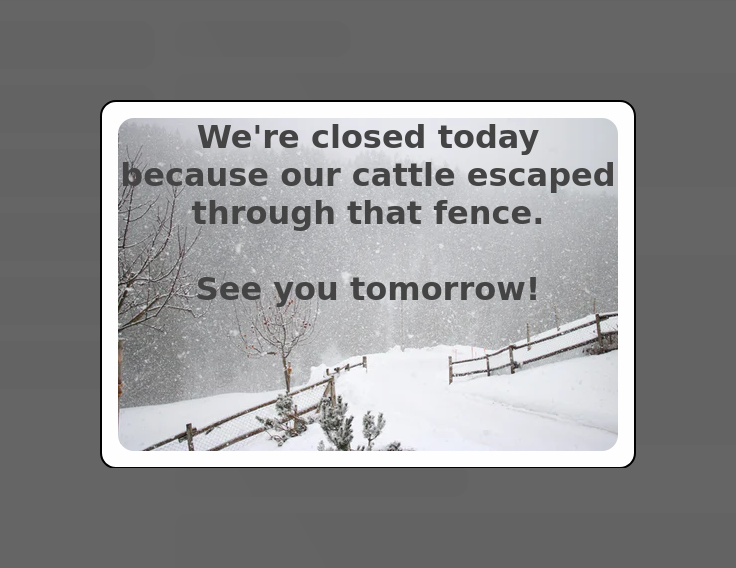
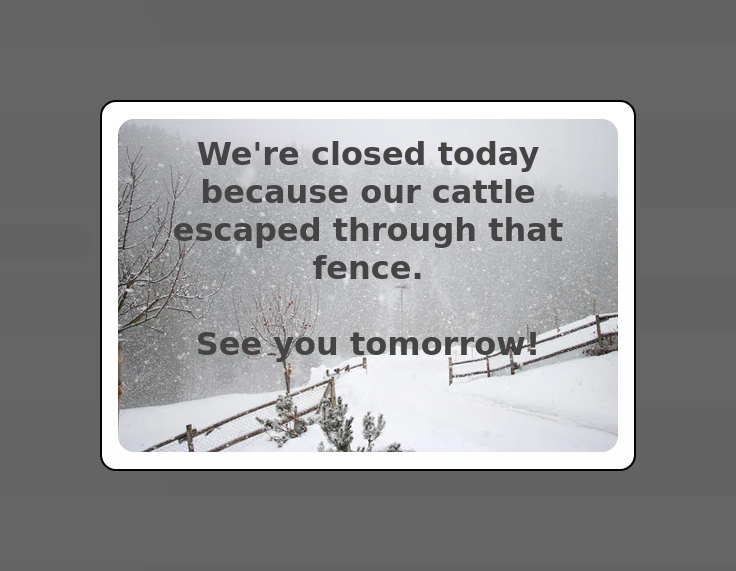
Roped in version of components that adds support for custom styles and updated the UI and description accordingly.

diff --git a/build/index.js b/build/index.js
@@ -156,7 +156,7 @@ var styleFactory = function styleFactory(vars) {
   return "\n  .wrapper {\n    display: flex;\n    font-size: ".concat(vars.fontSize * vars.PX_SCALE_FACTOR, "px;\n    font-family: system-ui, -apple-system, BlinkMacSystemFont, \"Segoe UI\", Roboto, Ubuntu, \"Helvetica Neue\", sans-serif;\n    text-align: left;\n    color: #000;\n    background-color: #fff;\n    margin: ").concat(vars.verticalMargin * vars.PX_SCALE_FACTOR, "px\n            ").concat(vars.horizontalMargin * vars.PX_SCALE_FACTOR, "px;\n    border-radius: ").concat(vars.borderRadius * vars.PX_SCALE_FACTOR, "px;\n    z-index: ").concat(vars.MAX_Z_INDEX + 1, ";\n  }\n\n  .wrapper.dismissible {\n    position: fixed;\n    left: 0;\n    top: 0;\n    right: 0;\n    cursor: pointer;\n    box-shadow: 0 0 16px 4px #444;\n    border-top-left-radius: 0;\n    border-top-right-radius: 0;\n    margin: 0;\n  }\n\n  .wrapper.dismissible.show {\n    animation-duration: .5s;\n    animation-name: slideDown;\n    animation-timing-function: linear;\n  }\n\n  .wrapper.dismissible.hide {\n    animation-duration: .25s;\n    animation-name: slideDown;\n    animation-timing-function: linear;\n    animation-direction: reverse;\n  }\n\n  .message {\n    display: inline;\n    flex-grow: 1;\n    padding: ").concat(vars.verticalPadding * vars.PX_SCALE_FACTOR, "px\n             ").concat(vars.horizontalPadding * vars.PX_SCALE_FACTOR, "px;\n  }\n\n  .wrapper.dismissible .message {\n    padding: ").concat((vars.verticalPadding + 4) * vars.PX_SCALE_FACTOR, "px\n             ").concat((vars.horizontalPadding + 16) * vars.PX_SCALE_FACTOR, "px;\n  }\n\n  .message img {\n    max-width: ").concat(vars.maxImageWidth * vars.PX_SCALE_FACTOR, "px;\n  }\n\n  .button-wrapper {\n    padding: ").concat(4 * vars.PX_SCALE_FACTOR, "px ").concat(32 * vars.PX_SCALE_FACTOR, "px;\n    font-weight: normal;\n    position: relative;\n  }\n\n  .button-wrapper.highlight {\n    background-color: rgba(255, 255, 255, .25);\n    box-shadow: -1px 0px 8px #888;\n    border-radius: ").concat(vars.borderRadius, "px;\n    border-top-right-radius: 0;\n  }\n\n  .button-wrapper:hover {\n    font-weight: bold;\n  }\n\n  button {\n    margin: 0;\n    padding: 0;\n    background-color: transparent;\n    border: none;\n    font-family: monospace;\n    font-size: ").concat(16 * vars.PX_SCALE_FACTOR, "px;\n    font-weight: inherit;\n    position: absolute;\n    top: 50%;\n    left: 50%;\n    transform: translate(-50%, -50%);\n    cursor: pointer;\n  }\n\n  @keyframes slideDown {\n    from {\n      transform: translate(0, -150%);\n    }\n\n    to {\n      transform: translate(0, 0);\n    }\n  }\n\n  a {\n    text-decoration: none;\n  }\n\n  p {\n    margin: 0;\n  }\n");
 };
 
-var propNameTypeDefaults = [["bannerUrl", _utils_js__WEBPACK_IMPORTED_MODULE_2__["TYPES"].STRING, ""], ["borderRadius", _utils_js__WEBPACK_IMPORTED_MODULE_2__["TYPES"].INTEGER, 16], ["colorScheme", _utils_js__WEBPACK_IMPORTED_MODULE_2__["TYPES"].STRING, "primary"], ["dismissible", _utils_js__WEBPACK_IMPORTED_MODULE_2__["TYPES"].BOOLEAN, true], ["fontSize", _utils_js__WEBPACK_IMPORTED_MODULE_2__["TYPES"].INTEGER, 16], ["gradientLevel", _utils_js__WEBPACK_IMPORTED_MODULE_2__["TYPES"].FLOAT, 1.0], ["horizontalMargin", _utils_js__WEBPACK_IMPORTED_MODULE_2__["TYPES"].FLOAT, 0], ["horizontalPadding", _utils_js__WEBPACK_IMPORTED_MODULE_2__["TYPES"].FLOAT, 0], ["id", _utils_js__WEBPACK_IMPORTED_MODULE_2__["TYPES"].STRING, ""], ["maxImageWidth", _utils_js__WEBPACK_IMPORTED_MODULE_2__["TYPES"].INTEGER, 20], ["message", _utils_js__WEBPACK_IMPORTED_MODULE_2__["TYPES"].HTML, "A default message"], ["verticalMargin", _utils_js__WEBPACK_IMPORTED_MODULE_2__["TYPES"].FLOAT, 0], ["verticalPadding", _utils_js__WEBPACK_IMPORTED_MODULE_2__["TYPES"].FLOAT, 16]];
+var propNameTypeDefaults = [["bannerUrl", _utils_js__WEBPACK_IMPORTED_MODULE_2__["TYPES"].STRING, ""], ["borderRadius", _utils_js__WEBPACK_IMPORTED_MODULE_2__["TYPES"].INTEGER, 16], ["colorScheme", _utils_js__WEBPACK_IMPORTED_MODULE_2__["TYPES"].STRING, "primary"], ["customStyles", _utils_js__WEBPACK_IMPORTED_MODULE_2__["TYPES"].STRING, ""], ["dismissible", _utils_js__WEBPACK_IMPORTED_MODULE_2__["TYPES"].BOOLEAN, true], ["fontSize", _utils_js__WEBPACK_IMPORTED_MODULE_2__["TYPES"].INTEGER, 16], ["gradientLevel", _utils_js__WEBPACK_IMPORTED_MODULE_2__["TYPES"].FLOAT, 1.0], ["horizontalMargin", _utils_js__WEBPACK_IMPORTED_MODULE_2__["TYPES"].FLOAT, 0], ["horizontalPadding", _utils_js__WEBPACK_IMPORTED_MODULE_2__["TYPES"].FLOAT, 0], ["id", _utils_js__WEBPACK_IMPORTED_MODULE_2__["TYPES"].STRING, ""], ["maxImageWidth", _utils_js__WEBPACK_IMPORTED_MODULE_2__["TYPES"].INTEGER, 20], ["message", _utils_js__WEBPACK_IMPORTED_MODULE_2__["TYPES"].HTML, "A default message"], ["verticalMargin", _utils_js__WEBPACK_IMPORTED_MODULE_2__["TYPES"].FLOAT, 0], ["verticalPadding", _utils_js__WEBPACK_IMPORTED_MODULE_2__["TYPES"].FLOAT, 16]];
 var BannerComponent = /*#__PURE__*/function (_Dismissible) {
   _inherits(BannerComponent, _Dismissible);
 
@@ -189,6 +189,7 @@ var BannerComponent = /*#__PURE__*/function (_Dismissible) {
 
       var _this$props = this.props,
           colorScheme = _this$props.colorScheme,
+          customStyles = _this$props.customStyles,
           dismissible = _this$props.dismissible,
           gradientLevel = _this$props.gradientLevel,
           message = _this$props.message;
@@ -200,6 +201,11 @@ var BannerComponent = /*#__PURE__*/function (_Dismissible) {
       if (bannerUrl && message.includes("</a>")) {
         bannerUrl = "";
         console.warn("Banner URL disabled because message includes an <a> tag");
+      } // Added any custom styles to the stylesheet.
+
+
+      if (customStyles) {
+        this.shadow.querySelector("style").textContent += "\n\n/* Custom Styles Begin */\n".concat(customStyles);
       } // Define the main wrapper element.
 
 
@@ -801,7 +807,7 @@ var styleFactory = function styleFactory(vars) {
   return "\n  .wrapper {\n    position: fixed;\n    left: 0;\n    top: 0;\n    right: 0;\n    bottom: 0;\n    background-color: rgba(0, 0, 0, .6);\n    cursor: pointer;\n    z-index: ".concat(vars.MAX_Z_INDEX + 1, ";\n  }\n\n  .content {\n    display: inline-block;\n    width: fit-content;\n    max-width: 85%;\n    max-height: 85%;\n    position: fixed;\n    top: 50%;\n    left: 50%;\n    transform: translate(-50%, -50%);\n    border: solid #000 2px;\n    overflow: auto;\n    cursor: default;\n    text-align: right;\n    padding: ").concat(16 * vars.PX_SCALE_FACTOR, "px;\n    background-color: #fff;\n    font-size: ").concat(vars.fontSize * vars.PX_SCALE_FACTOR, "px;\n    border-radius: ").concat(vars.borderRadius, "px;\n  }\n\n  @media screen and (min-width: 800px) {\n    .content {\n      max-width: 680px;\n    }\n  }\n\n  .message {\n    text-align: left;\n    display: block;\n    cursor: text;\n    padding: ").concat(vars.verticalPadding * vars.PX_SCALE_FACTOR, "px\n             ").concat(vars.horizontalPadding * vars.PX_SCALE_FACTOR, "px;\n  }\n\n  .message img {\n    max-width: ").concat(vars.maxImageWidth * vars.PX_SCALE_FACTOR, "px;\n  }\n\n  button {\n    display: inline;\n    padding: ").concat(8 * vars.PX_SCALE_FACTOR, "px ").concat(12 * vars.PX_SCALE_FACTOR, "px;\n    cursor: pointer;\n    border: none;\n    border-radius: 4px;\n    margin-top: ").concat(24 * vars.PX_SCALE_FACTOR, "px;\n    font-size: ").concat(16 * vars.PX_SCALE_FACTOR, "px;\n  }\n\n  p {\n    margin: 0;\n  }\n");
 };
 
-var propNameTypeDefaults = [["borderRadius", _utils_js__WEBPACK_IMPORTED_MODULE_2__["TYPES"].INTEGER, 16], ["buttonText", _utils_js__WEBPACK_IMPORTED_MODULE_2__["TYPES"].STRING, "OK"], ["colorScheme", _utils_js__WEBPACK_IMPORTED_MODULE_2__["TYPES"].STRING, "primary"], ["dismissible", _utils_js__WEBPACK_IMPORTED_MODULE_2__["TYPES"].BOOLEAN, true], ["fontSize", _utils_js__WEBPACK_IMPORTED_MODULE_2__["TYPES"].INTEGER, 16], ["gradientLevel", _utils_js__WEBPACK_IMPORTED_MODULE_2__["TYPES"].FLOAT, 1.0], ["horizontalPadding", _utils_js__WEBPACK_IMPORTED_MODULE_2__["TYPES"].FLOAT, 0], ["id", _utils_js__WEBPACK_IMPORTED_MODULE_2__["TYPES"].STRING, ""], ["maxImageWidth", _utils_js__WEBPACK_IMPORTED_MODULE_2__["TYPES"].INTEGER, 20], ["message", _utils_js__WEBPACK_IMPORTED_MODULE_2__["TYPES"].HTML, "A default message"], ["stealFocus", _utils_js__WEBPACK_IMPORTED_MODULE_2__["TYPES"].BOOLEAN, true], ["verticalPadding", _utils_js__WEBPACK_IMPORTED_MODULE_2__["TYPES"].FLOAT, 1]];
+var propNameTypeDefaults = [["borderRadius", _utils_js__WEBPACK_IMPORTED_MODULE_2__["TYPES"].INTEGER, 16], ["buttonText", _utils_js__WEBPACK_IMPORTED_MODULE_2__["TYPES"].STRING, "OK"], ["colorScheme", _utils_js__WEBPACK_IMPORTED_MODULE_2__["TYPES"].STRING, "primary"], ["customStyles", _utils_js__WEBPACK_IMPORTED_MODULE_2__["TYPES"].STRING, ""], ["dismissible", _utils_js__WEBPACK_IMPORTED_MODULE_2__["TYPES"].BOOLEAN, true], ["fontSize", _utils_js__WEBPACK_IMPORTED_MODULE_2__["TYPES"].INTEGER, 16], ["gradientLevel", _utils_js__WEBPACK_IMPORTED_MODULE_2__["TYPES"].FLOAT, 1.0], ["horizontalPadding", _utils_js__WEBPACK_IMPORTED_MODULE_2__["TYPES"].FLOAT, 0], ["id", _utils_js__WEBPACK_IMPORTED_MODULE_2__["TYPES"].STRING, ""], ["maxImageWidth", _utils_js__WEBPACK_IMPORTED_MODULE_2__["TYPES"].INTEGER, 20], ["message", _utils_js__WEBPACK_IMPORTED_MODULE_2__["TYPES"].HTML, "A default message"], ["stealFocus", _utils_js__WEBPACK_IMPORTED_MODULE_2__["TYPES"].BOOLEAN, true], ["verticalPadding", _utils_js__WEBPACK_IMPORTED_MODULE_2__["TYPES"].FLOAT, 1]];
 var ModalComponent = /*#__PURE__*/function (_Dismissible) {
   _inherits(ModalComponent, _Dismissible);
 
@@ -836,10 +842,16 @@ var ModalComponent = /*#__PURE__*/function (_Dismissible) {
       var _this$props = this.props,
           buttonText = _this$props.buttonText,
           colorScheme = _this$props.colorScheme,
+          customStyles = _this$props.customStyles,
           dismissible = _this$props.dismissible,
           gradientLevel = _this$props.gradientLevel,
           message = _this$props.message,
-          stealFocus = _this$props.stealFocus; // Define the main wrapper element.
+          stealFocus = _this$props.stealFocus; // Added any custom styles to the stylesheet.
+
+      if (customStyles) {
+        this.shadow.querySelector("style").textContent += "\n\n/* Custom Styles Begin */\n".concat(customStyles);
+      } // Define the main wrapper element.
+
 
       var _split = (SCHEME_NAME_COLORS_MAP[colorScheme] || colorScheme).split(","),
           _split2 = _slicedToArray(_split, 4),
@@ -1254,15 +1266,16 @@ function updateElement() {
 
   var _options = options,
       bannerUrl = _options.bannerUrl,
+      borderRadius = _options.borderRadius,
       buttonText = _options.buttonText,
+      customStyles = _options.customStyles,
       displayMode = _options.displayMode,
       fontSize = _options.fontSize,
-      verticalPadding = _options.verticalPadding,
+      horizontalMargin = _options.horizontalMargin,
       horizontalPadding = _options.horizontalPadding,
       notDismissible = _options.notDismissible,
       verticalMargin = _options.verticalMargin,
-      horizontalMargin = _options.horizontalMargin,
-      borderRadius = _options.borderRadius; // Get the message content.
+      verticalPadding = _options.verticalPadding; // Get the message content.
 
   var message = getMessageContent(); // Get the colors.
 
@@ -1277,6 +1290,7 @@ function updateElement() {
   var componentOptions = {
     borderRadius: borderRadius,
     buttonText: buttonText,
+    customStyles: customStyles,
     dismissalContentProp: "message",
     dismissalMinutes: getDismissedUntilMinutes(),
     dismissible: !notDismissible,

diff --git a/src/components/Banner.js b/src/components/Banner.js
@@ -127,6 +127,7 @@ const propNameTypeDefaults = [
   ["bannerUrl", TYPES.STRING, ""],
   ["borderRadius", TYPES.INTEGER, 16],
   ["colorScheme", TYPES.STRING, "primary"],
+  ["customStyles", TYPES.STRING, ""],
   ["dismissible", TYPES.BOOLEAN, true],
   ["fontSize", TYPES.INTEGER, 16],
   ["gradientLevel", TYPES.FLOAT, 1.0],
@@ -158,7 +159,13 @@ export class BannerComponent extends Dismissible(Base) {
     this.setAttribute("aria-label", "Important Message")
 
     // Get the configuration properties.
-    const { colorScheme, dismissible, gradientLevel, message } = this.props
+    const {
+      colorScheme,
+      customStyles,
+      dismissible,
+      gradientLevel,
+      message,
+    } = this.props
     let { bannerUrl } = this.props
 
     // Since <a>'s can't be nested, check for the condition where both
@@ -168,6 +175,13 @@ export class BannerComponent extends Dismissible(Base) {
     if (bannerUrl && message.includes("</a>")) {
       bannerUrl = ""
       console.warn("Banner URL disabled because message includes an <a> tag")
+    }
+
+    // Added any custom styles to the stylesheet.
+    if (customStyles) {
+      this.shadow.querySelector(
+        "style",
+      ).textContent += `\n\n/* Custom Styles Begin */\n${customStyles}`
     }
 
     // Define the main wrapper element.

diff --git a/src/components/Modal.js b/src/components/Modal.js
@@ -85,6 +85,7 @@ const propNameTypeDefaults = [
   ["borderRadius", TYPES.INTEGER, 16],
   ["buttonText", TYPES.STRING, "OK"],
   ["colorScheme", TYPES.STRING, "primary"],
+  ["customStyles", TYPES.STRING, ""],
   ["dismissible", TYPES.BOOLEAN, true],
   ["fontSize", TYPES.INTEGER, 16],
   ["gradientLevel", TYPES.FLOAT, 1.0],
@@ -119,11 +120,19 @@ export class ModalComponent extends Dismissible(Base) {
     const {
       buttonText,
       colorScheme,
+      customStyles,
       dismissible,
       gradientLevel,
       message,
       stealFocus,
     } = this.props
+
+    // Added any custom styles to the stylesheet.
+    if (customStyles) {
+      this.shadow.querySelector(
+        "style",
+      ).textContent += `\n\n/* Custom Styles Begin */\n${customStyles}`
+    }
 
     // Define the main wrapper element.
     const [bgColor, color, buttonBgColor, buttonColor] = (

diff --git a/src/index.js b/src/index.js
@@ -89,15 +89,16 @@ function updateElement() {
 
   const {
     bannerUrl,
+    borderRadius,
     buttonText,
+    customStyles,
     displayMode,
     fontSize,
-    verticalPadding,
+    horizontalMargin,
     horizontalPadding,
     notDismissible,
     verticalMargin,
-    horizontalMargin,
-    borderRadius,
+    verticalPadding,
   } = options
 
   // Get the message content.
@@ -110,6 +111,7 @@ function updateElement() {
   const componentOptions = {
     borderRadius,
     buttonText,
+    customStyles,
     dismissalContentProp: "message",
     dismissalMinutes: getDismissedUntilMinutes(),
     dismissible: !notDismissible,

diff --git a/info/full_description.md b/info/full_description.md
@@ -7,7 +7,7 @@
 | Banner Options | Dismiss or redirect to URL on click |
 | Dismissal Modes | Dismissible w/ custom period or Non-Dismissible |
 | Color Scheme | Predefined or Custom |
-| Styling Options | Text Size, Padding, Corner Roundness |
+| Styling Options | Text Size, Padding, Corner Roundness, Custom CSS |
 
 # Messages Types
 You can compose your message using plain text, rich text, or HTML.
@@ -23,7 +23,7 @@ The rich-text input allows you to control text formatting and insert links and i
 ![rich-text modal screenshot](https://user-images.githubusercontent.com/585182/77550943-0ebb8780-6e88-11ea-82bc-ef8598b1aacb.png)
 
 ## HTML Message *(FULL version only)*
-The option allows you to enter HTML for complete control over your message styling and embedded links, images, etc.
+This option allows you to enter HTML for complete control over your message styling and embedded links, images, etc.
 
 For example, entering this:
 
@@ -36,16 +36,34 @@ will display:
 ![customHTMLMessage](https://user-images.githubusercontent.com/585182/79355563-d568bb80-7f0b-11ea-9cf9-69915eb5f4f7.png)
 
 
-Here's the HTML for a more ambitious example that includes a background image:
+Here's the HTML for a fancier example that includes a background image:
 
 ```
-<p style="background-image: url(https://images.unsplash.com/photo-1558897979-72a433ed5f8d?auto=format&fit=crop&w=500&q=60); background-position: center; width: 500px; height: 333px; border-radius: 16px; text-align: center; color: #444; font-weight: bold;">We're closed today because our cattle escaped through that fence.<br><br>See you tomorrow!</p>
+<div style="background-image: url(https://images.unsplash.com/photo-1558897979-72a433ed5f8d?auto=format&fit=crop&w=500&q=60); background-position: center; width: 500px; height: 333px; border-radius: 16px;"><p style="color: #444; font-size: 32px; font-weight: bold; text-align: center; padding: .5em;">We're closed today because our cattle escaped through that fence.<br><br>See you tomorrow!</p></div>
 ```
 
 ### Example of Custom HTML
 
-![cattleFence](https://user-images.githubusercontent.com/585182/79357702-60e34c00-7f0e-11ea-9ef3-d6f4d724baff.png)
+![cattleFence](https://user-images.githubusercontent.com/585182/79467422-c34e5200-7fcb-11ea-8a41-721c2c9c525f.png)
 
+Note the white border around the above image. That's baked into the component, but you can modify that with custom styles as described below.
+
+# Custom Styles  *(FULL version only)*
+This option allows you to add custom CSS to style your HTML message elements or override the existing component styles.
+
+For example, to eliminate the white padding around the snowy image in **Example of Custom HTML**, you can set Custom Styles as follows:
+
+```
+.content { padding: 0; }
+```
+
+which will result in:
+
+![cattleFenceWithCustomStyles](https://user-images.githubusercontent.com/585182/79482613-1251b280-7fdf-11ea-97d9-60cbc637ef01.png)
+
+Some things to note:
+- Both the Banner and Modal components have .wrapper and .message class elements but you should right-click -> Inspect Element in your browser to see them in all their structural glory.
+- You may have to use **!important** to override styles that are exposed via controls in the UI (e.g. Text Size / font-size).
 
 # Display Modes
 
